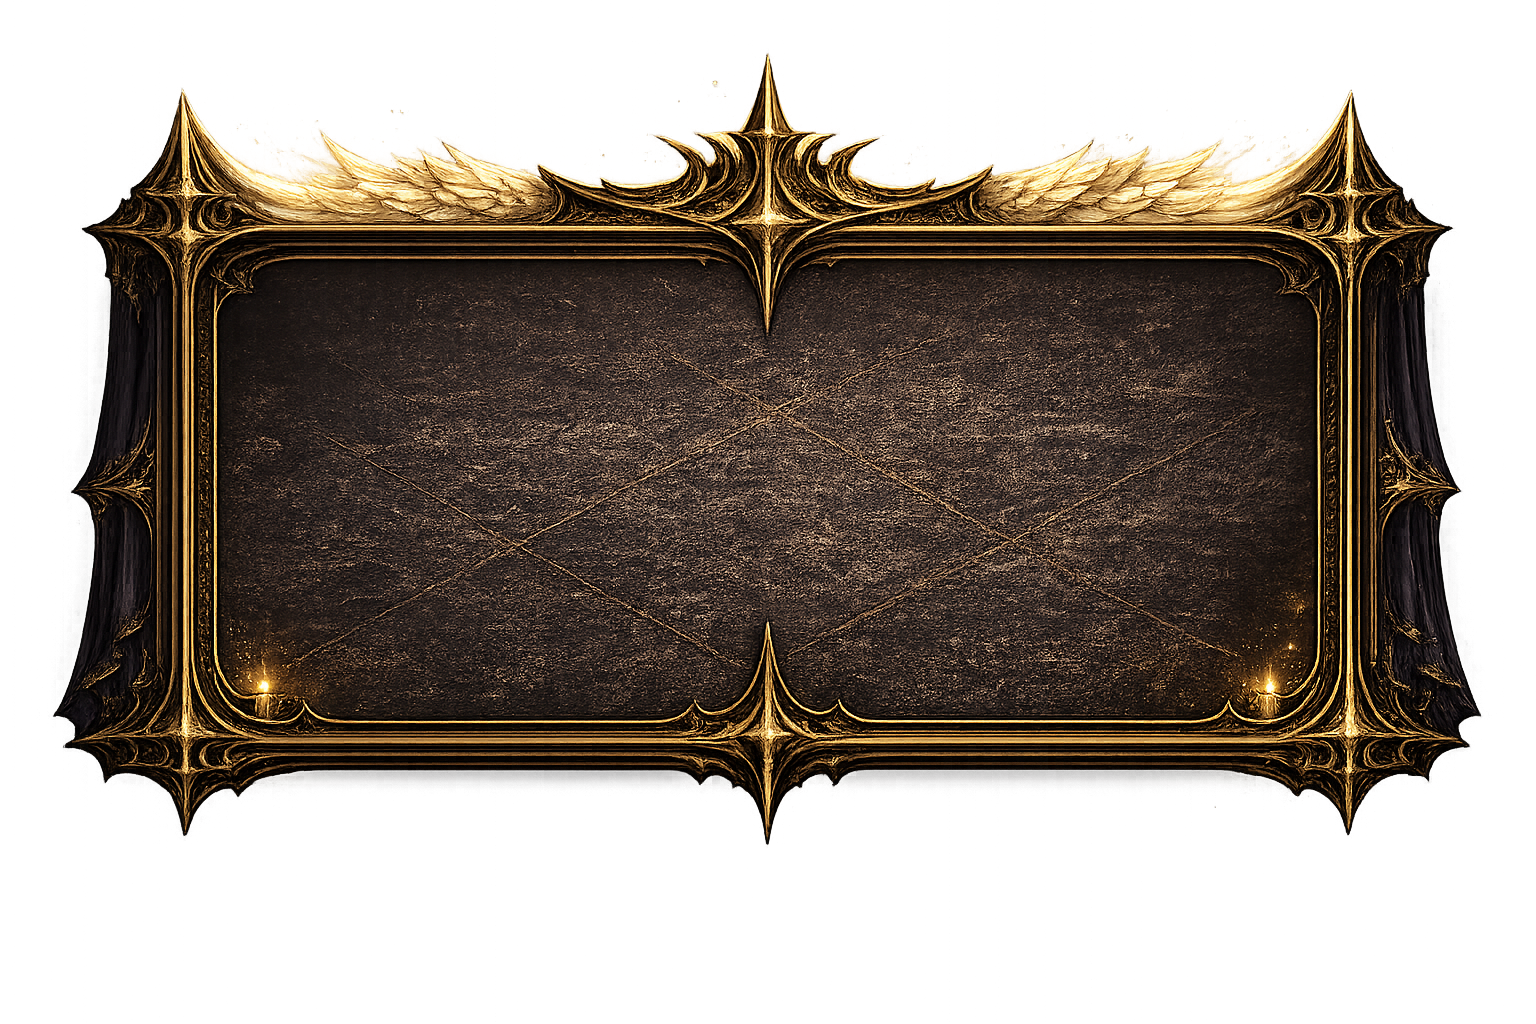
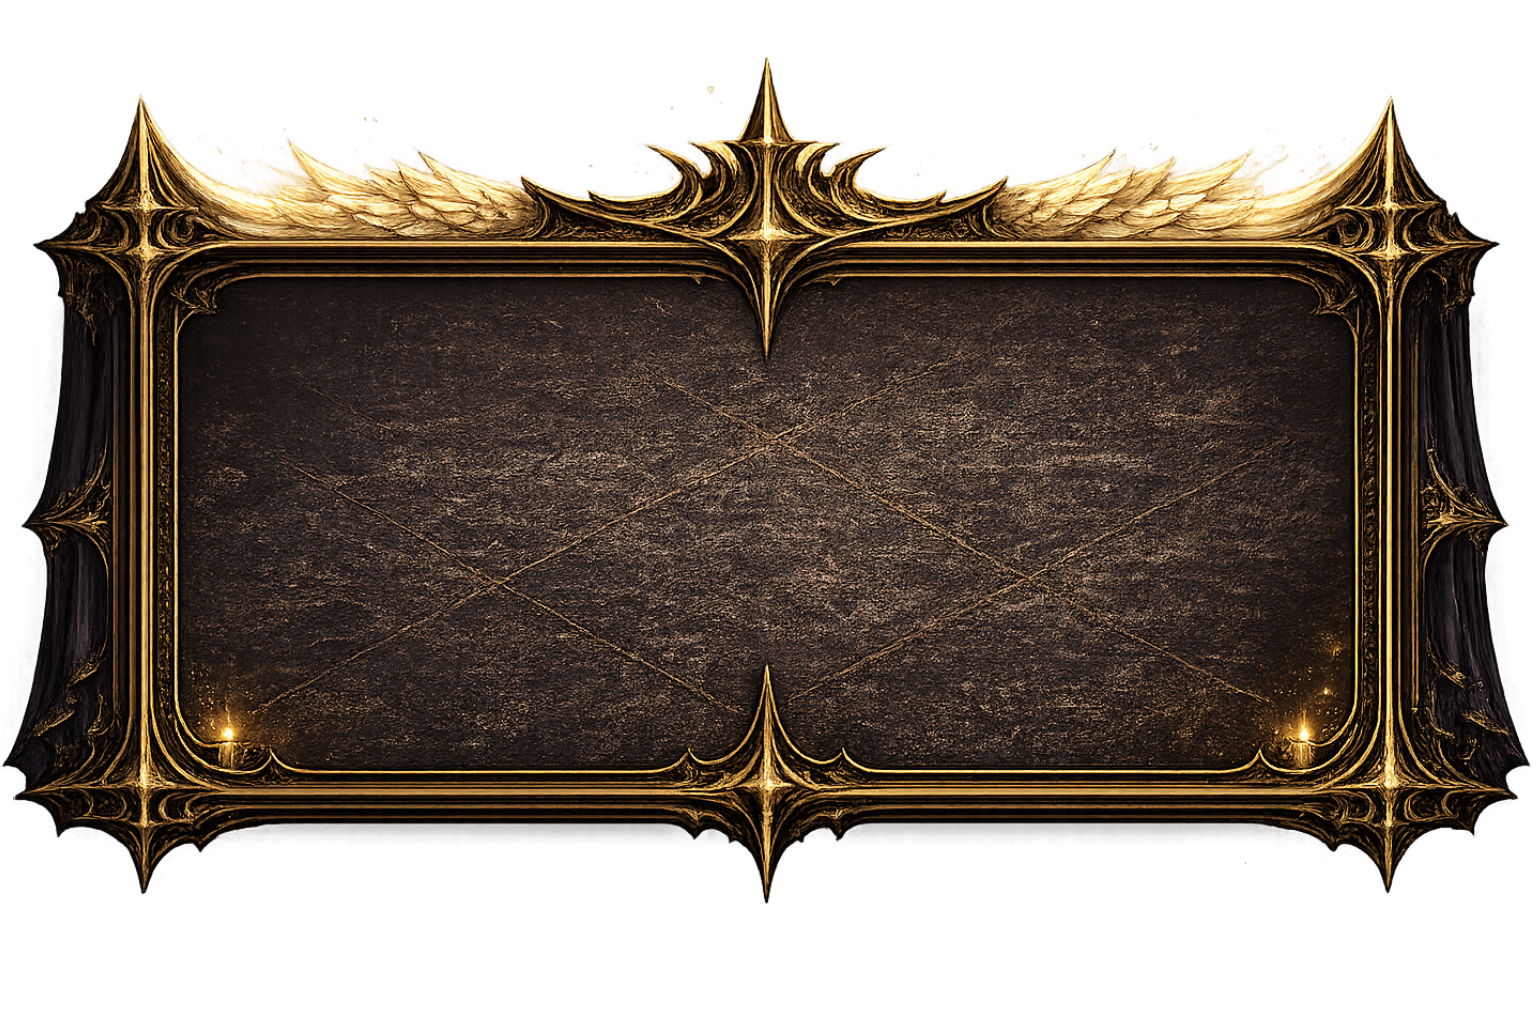
rewardscreen

diff --git a/core/src/main/java/com/fallenascendants/screen/RewardScreen.java b/core/src/main/java/com/fallenascendants/screen/RewardScreen.java
@@ -3,14 +3,16 @@ package com.fallenascendants.screen;
 import com.badlogic.gdx.Gdx;
 import com.badlogic.gdx.Input;
 import com.badlogic.gdx.Screen;
-import com.badlogic.gdx.audio.Sound;
 import com.badlogic.gdx.graphics.Color;
 import com.badlogic.gdx.graphics.GL20;
 import com.badlogic.gdx.graphics.Texture;
 import com.badlogic.gdx.graphics.g2d.BitmapFont;
 import com.badlogic.gdx.graphics.g2d.freetype.FreeTypeFontGenerator;
+import com.badlogic.gdx.math.Interpolation;
+import com.badlogic.gdx.math.MathUtils;
 import com.badlogic.gdx.scenes.scene2d.InputEvent;
 import com.badlogic.gdx.scenes.scene2d.Stage;
+import com.badlogic.gdx.scenes.scene2d.Touchable;
 import com.badlogic.gdx.scenes.scene2d.actions.Actions;
 import com.badlogic.gdx.scenes.scene2d.ui.Container;
 import com.badlogic.gdx.scenes.scene2d.ui.Image;
@@ -22,10 +24,6 @@ import com.badlogic.gdx.scenes.scene2d.utils.ClickListener;
 import com.badlogic.gdx.scenes.scene2d.utils.TextureRegionDrawable;
 import com.badlogic.gdx.utils.Align;
 import com.badlogic.gdx.utils.viewport.FitViewport;
-import com.badlogic.gdx.math.Interpolation;
-import com.badlogic.gdx.graphics.Pixmap;
-import com.badlogic.gdx.scenes.scene2d.Touchable;
-import com.badlogic.gdx.scenes.scene2d.ui.Stack;
 import com.fallenascendants.FallenAscendantsGame;
 import com.fallenascendants.audio.MusicManager;
 import com.fallenascendants.audio.SFXManager;
@@ -40,6 +38,10 @@ import java.util.List;
 public class RewardScreen implements Screen {
     private static final int CARD_WIDTH = 110;
     private static final int CARD_HEIGHT = 160;
+
+    private static final float PANEL_WIDTH = 1000f;
+    private static final float PANEL_MIN_HEIGHT = 400f;
+    private static final float PANEL_MAX_HEIGHT = 700f;
 
     private final FallenAscendantsGame game;
     private final ProgressionManager.BattleRewards rewards;
@@ -65,8 +67,6 @@ public class RewardScreen implements Screen {
     private boolean rewardClaimed = false;
     private TextButton continueButton;
 
-    private Texture solidPixelTexture;
-
     public RewardScreen(FallenAscendantsGame game, ProgressionManager.BattleRewards rewards) {
         this.game = game;
         this.rewards = rewards;
@@ -78,7 +78,6 @@ public class RewardScreen implements Screen {
         stage = new Stage(new FitViewport(1280, 720));
         Gdx.input.setInputProcessor(stage);
         skin = new Skin(Gdx.files.internal("ui/uiskin.json"));
-
         FullscreenToggle.attach(stage);
 
         String backgroundPath = rewards.isWin()
@@ -107,24 +106,28 @@ public class RewardScreen implements Screen {
         buttonPressed = new Texture(Gdx.files.internal("Button/PressedButton.png"));
         buttonPressed.setFilter(Texture.TextureFilter.Linear, Texture.TextureFilter.Linear);
 
+        float scale = (float) Gdx.graphics.getHeight() / 720f;
+
         FreeTypeFontGenerator generator = new FreeTypeFontGenerator(Gdx.files.internal("fonts/CinzelDecorative-Regular.ttf"));
         FreeTypeFontGenerator.FreeTypeFontParameter parameter = new FreeTypeFontGenerator.FreeTypeFontParameter();
-
         parameter.minFilter = Texture.TextureFilter.Linear;
         parameter.magFilter = Texture.TextureFilter.Linear;
 
-        parameter.size = 44;
+        parameter.size = Math.round(44 * scale);
         parameter.color = new Color(0.9f, 0.8f, 0.6f, 1f);
-        parameter.borderWidth = 2;
+        parameter.borderWidth = 2 * scale;
         parameter.borderColor = Color.BLACK;
         titleFont = generator.generateFont(parameter);
 
-        parameter.size = 18;
+        parameter.size = Math.round(18 * scale);
         parameter.color = Color.WHITE;
-        parameter.borderWidth = 1;
+        parameter.borderWidth = 1 * scale;
         parameter.borderColor = Color.BLACK;
         uiFont = generator.generateFont(parameter);
         generator.dispose();
+
+        titleFont.getData().setScale(1f / scale);
+        uiFont.getData().setScale(1f / scale);
 
         cardLabelStyle = new Label.LabelStyle(uiFont, Color.WHITE);
         titleLabelStyle = new Label.LabelStyle(titleFont, new Color(0.9f, 0.8f, 0.6f, 1f));
@@ -140,36 +143,29 @@ public class RewardScreen implements Screen {
         buttonStyle.pressedOffsetX = 1;
         buttonStyle.pressedOffsetY = -1;
 
-        int panelWidth = 1050;
-        int panelHeight = 700;
-        Image panelImage = new Image(new TextureRegionDrawable(rewardPanelTexture));
-        panelImage.setSize(panelWidth, panelHeight);
-        panelImage.setPosition((1280 - panelWidth) / 2f, (720 - panelHeight) / 2f);
-        stage.addActor(panelImage);
+        // Top pad beda: crown di RewardPanel.png jauh lebih tinggi/rumit dibanding
+        // ornamen SpecialPanel.png, jadi butuh jarak lebih buat judul gak numpuk.
+        float topPad = rewards.isWin() ? 115f : 90f;
 
-        Table root = new Table();
-        root.setFillParent(true);
-        root.center();
-        stage.addActor(root);
+        // Content dibangun DULU tanpa nge-fix tinggi apapun, biar bisa diukur tinggi
+        // alaminya sendiri lewat getPrefHeight() -- bukan nebak angka lagi.
+        Table content = new Table();
+        content.pad(topPad, 90f, 70f, 90f);
 
         continueButton = new TextButton("Continue", buttonStyle);
 
         Label title = new Label(rewards.isWin() ? "VICTORY!" : "DEFEAT", titleLabelStyle);
         title.setAlignment(Align.center);
-        root.add(title).padBottom(15).row();
+        content.add(title).padBottom(6).row();
 
-        Label goldLabel = new Label(
-            "Gold Earned: " + rewards.getGoldEarned()
-                + "\nTotal Gold: " + game.getPlayer().getGold(),
-            bodyLabelStyle
-        );
+        Label goldLabel = new Label("Gold Earned: " + rewards.getGoldEarned(), bodyLabelStyle);
         goldLabel.setAlignment(Align.center);
-        root.add(goldLabel).padBottom(20).row();
+        content.add(goldLabel).padBottom(0).row();
 
         if (rewards.isWin()) {
             Label chooseLabel = new Label("Choose 1 New Card:", bodyLabelStyle);
             chooseLabel.setAlignment(Align.center);
-            root.add(chooseLabel).padBottom(12).row();
+            content.add(chooseLabel).padBottom(0).row();
 
             Table cardRow = new Table();
             List<Card> options = rewards.getCardOptions();
@@ -188,10 +184,37 @@ public class RewardScreen implements Screen {
 
                 container.addListener(new ClickListener() {
                     @Override
+                    public void enter(InputEvent event, float x, float y, int pointer, com.badlogic.gdx.scenes.scene2d.Actor fromActor) {
+                        super.enter(event, x, y, pointer, fromActor);
+                        // Jika mouse hover dan kartu belum diklik
+                        if (pointer == -1 && !rewardClaimed) {
+                            SFXManager.play("sound/sound_effect/hoverbutton.mp3", game.getSfxVolume());
+
+                            // Efek membesar halus ke ukuran 1.08x
+                            container.clearActions();
+                            container.addAction(Actions.scaleTo(1.08f, 1.08f, 0.12f, Interpolation.sineOut));
+                        }
+                    }
+
+                    @Override
+                    public void exit(InputEvent event, float x, float y, int pointer, com.badlogic.gdx.scenes.scene2d.Actor toActor) {
+                        super.exit(event, x, y, pointer, toActor);
+                        // Saat mouse keluar dari area kartu dan kartu belum diklik
+                        if (pointer == -1 && !rewardClaimed) {
+                            // Efek kembali ke ukuran normal (1.0x)
+                            container.clearActions();
+                            container.addAction(Actions.scaleTo(1.0f, 1.0f, 0.12f, Interpolation.sineOut));
+                        }
+                    }
+
+                    @Override
                     public void clicked(InputEvent event, float x, float y) {
                         if (rewardClaimed) {
                             return;
                         }
+                        SFXManager.play("sound/sound_effect/clickbutton.mp3", game.getSfxVolume());
+                        container.clearActions();
+                        container.setScale(1f, 1f);
                         onCardChosen(optionIndex, container);
                     }
                 });
@@ -199,15 +222,15 @@ public class RewardScreen implements Screen {
                 cardRow.add(container).size(CARD_WIDTH, CARD_HEIGHT).padRight(12);
             }
 
-            root.add(cardRow).padBottom(15).row();
+            content.add(cardRow).padBottom(0).row();
 
             revealLabel = new Label("", bodyLabelStyle);
             revealLabel.setAlignment(Align.center);
-            root.add(revealLabel).padBottom(15).row();
+            content.add(revealLabel).padBottom(0).row();
         } else {
             Label loseLabel = new Label("Your Team Has Fallen. No New Cards.", bodyLabelStyle);
             loseLabel.setAlignment(Align.center);
-            root.add(loseLabel).padBottom(25).row();
+            content.add(loseLabel).padBottom(20).row();
         }
 
         if (rewards.isWin()) {
@@ -215,7 +238,25 @@ public class RewardScreen implements Screen {
         }
         continueButton.addListener(new ClickListener() {
             @Override
+            public void enter(InputEvent event, float x, float y, int pointer, com.badlogic.gdx.scenes.scene2d.Actor fromActor) {
+                super.enter(event, x, y, pointer, fromActor);
+                // pointer == -1 memastikan event ini adalah murni hover dari mouse,
+                // bukan karena kursor sedang menahan klik (drag).
+                if (pointer == -1 && !continueButton.isDisabled()) {
+                    SFXManager.play("sound/sound_effect/hoverbutton.mp3", game.getSfxVolume());
+                }
+            }
+
+            @Override
             public void clicked(InputEvent event, float x, float y) {
+                // Jika tombol sedang disable, jangan mainkan suara click dan hentikan proses
+                if (continueButton.isDisabled()) {
+                    return;
+                }
+
+                // Mainkan suara klik (pastikan path dan nama file mp3-nya sesuai dengan foldermu)
+                SFXManager.play("sound/sound_effect/clickbutton.mp3", game.getSfxVolume());
+
                 if (rewards.isWin() && !rewardClaimed) {
                     return;
                 }
@@ -223,13 +264,36 @@ public class RewardScreen implements Screen {
                 game.setScreen(new MainMenuScreen(game));
             }
         });
-        root.add(continueButton).width(200).height(70);
+        content.add(continueButton).width(180).height(48);
+
+        // Di sinilah bedanya: TANYA ke Table beneran butuh tinggi berapa
+        // buat nampung semua row di atas, bukan nebak angka lagi.
+        float neededHeight = content.getPrefHeight()*1.5f;
+        float maxHeight = rewards.isWin() ? 850f : 720f;
+        float panelHeight = MathUtils.clamp(neededHeight, PANEL_MIN_HEIGHT, maxHeight);
+
+        float panelX = (1280f - PANEL_WIDTH) / 2f;
+        float panelY = (720 - panelHeight) / 2f;
+
+        Image panelImage = new Image(new TextureRegionDrawable(rewardPanelTexture));
+        panelImage.setSize(PANEL_WIDTH, panelHeight);
+        panelImage.setPosition(panelX, panelY);
+        stage.addActor(panelImage);
+
+        content.setSize(PANEL_WIDTH, panelHeight);
+        content.setPosition(panelX, panelY);
+        stage.addActor(content);
 
         if (rewards.isWin()) {
             MusicManager.play("sound/background_music/victory_theme.mp3", true, game.getMusicVolume());
         } else {
             MusicManager.play("sound/background_music/defeat_theme.mp3", true, game.getMusicVolume());
         }
+    }
+
+    @Override
+    public void resize(int width, int height) {
+        stage.getViewport().update(width, height, true);
     }
 
     private void onCardChosen(int optionIndex, Container<com.badlogic.gdx.scenes.scene2d.Actor> container) {
@@ -244,13 +308,12 @@ public class RewardScreen implements Screen {
         revealLabel.setText("You got: " + claimed.getName() + " (" + claimed.getRarity() + ")!");
 
         for (Container<com.badlogic.gdx.scenes.scene2d.Actor> other : cardContainers) {
-            other.setTouchable(com.badlogic.gdx.scenes.scene2d.Touchable.disabled);
+            other.setTouchable(Touchable.disabled);
         }
 
         flipContainerToCard(container, claimed, 0f);
         pulseChosenCard(container);
 
-        // Kartu pilihan dikasih napas dulu sebelum sisanya ikut ke-reveal satu-satu,
         List<Card> options = rewards.getCardOptions();
         float delay = 0.9f;
         for (int i = 0; i < cardContainers.length; i++) {
@@ -264,10 +327,7 @@ public class RewardScreen implements Screen {
     private void flipContainerToCard(Container<com.badlogic.gdx.scenes.scene2d.Actor> container, Card card, float startDelay) {
         Texture frame = getFrameByRarity(card.getRarity());
         CardActor revealedCardActor = new CardActor(card, skin, true, cardLabelStyle, frame);
-
-        // Menyembunyikan Label (Nama & Level) beserta latar hitam transparannya
         revealedCardActor.setLabelsVisible(false);
-
         createdCardActors.add(revealedCardActor);
 
         container.addAction(Actions.sequence(
@@ -281,7 +341,6 @@ public class RewardScreen implements Screen {
         ));
     }
 
-    // Kartu pilihan "napas" pelan abis flip kelar (0.3s = 0.15+0.15 durasi flip),
     private void pulseChosenCard(Container<com.badlogic.gdx.scenes.scene2d.Actor> container) {
         container.addAction(Actions.sequence(
             Actions.delay(0.35f),
@@ -290,17 +349,6 @@ public class RewardScreen implements Screen {
                 Actions.scaleTo(1f, 1f, 0.5f, Interpolation.sine)
             ))
         ));
-    }
-
-    private Texture getSolidPixelTexture() {
-        if (solidPixelTexture == null) {
-            Pixmap pixmap = new Pixmap(1, 1, Pixmap.Format.RGBA8888);
-            pixmap.setColor(1f, 1f, 1f, 1f);
-            pixmap.fill();
-            solidPixelTexture = new Texture(pixmap);
-            pixmap.dispose();
-        }
-        return solidPixelTexture;
     }
 
     private Texture getFrameByRarity(Rarity rarity) {
@@ -327,16 +375,16 @@ public class RewardScreen implements Screen {
                 game.saveProgress();
                 game.setScreen(new MainMenuScreen(game));
             }
+            if (!continueButton.isDisabled()) {
+                SFXManager.play("sound/sound_effect/clickbutton.mp3", game.getSfxVolume());
+                game.saveProgress();
+                game.setScreen(new MainMenuScreen(game));
+            }
         }
         Gdx.gl.glClearColor(0.05f, 0.04f, 0.07f, 1f);
         Gdx.gl.glClear(GL20.GL_COLOR_BUFFER_BIT);
         stage.act(delta);
         stage.draw();
-    }
-
-    @Override
-    public void resize(int width, int height) {
-        stage.getViewport().update(width, height, true);
     }
 
     @Override public void pause() {}
@@ -362,7 +410,6 @@ public class RewardScreen implements Screen {
         if (buttonPressed != null) buttonPressed.dispose();
         if (titleFont != null) titleFont.dispose();
         if (uiFont != null) uiFont.dispose();
-        if (solidPixelTexture != null) solidPixelTexture.dispose();
 
         for (CardActor actor : createdCardActors) {
             actor.dispose();
